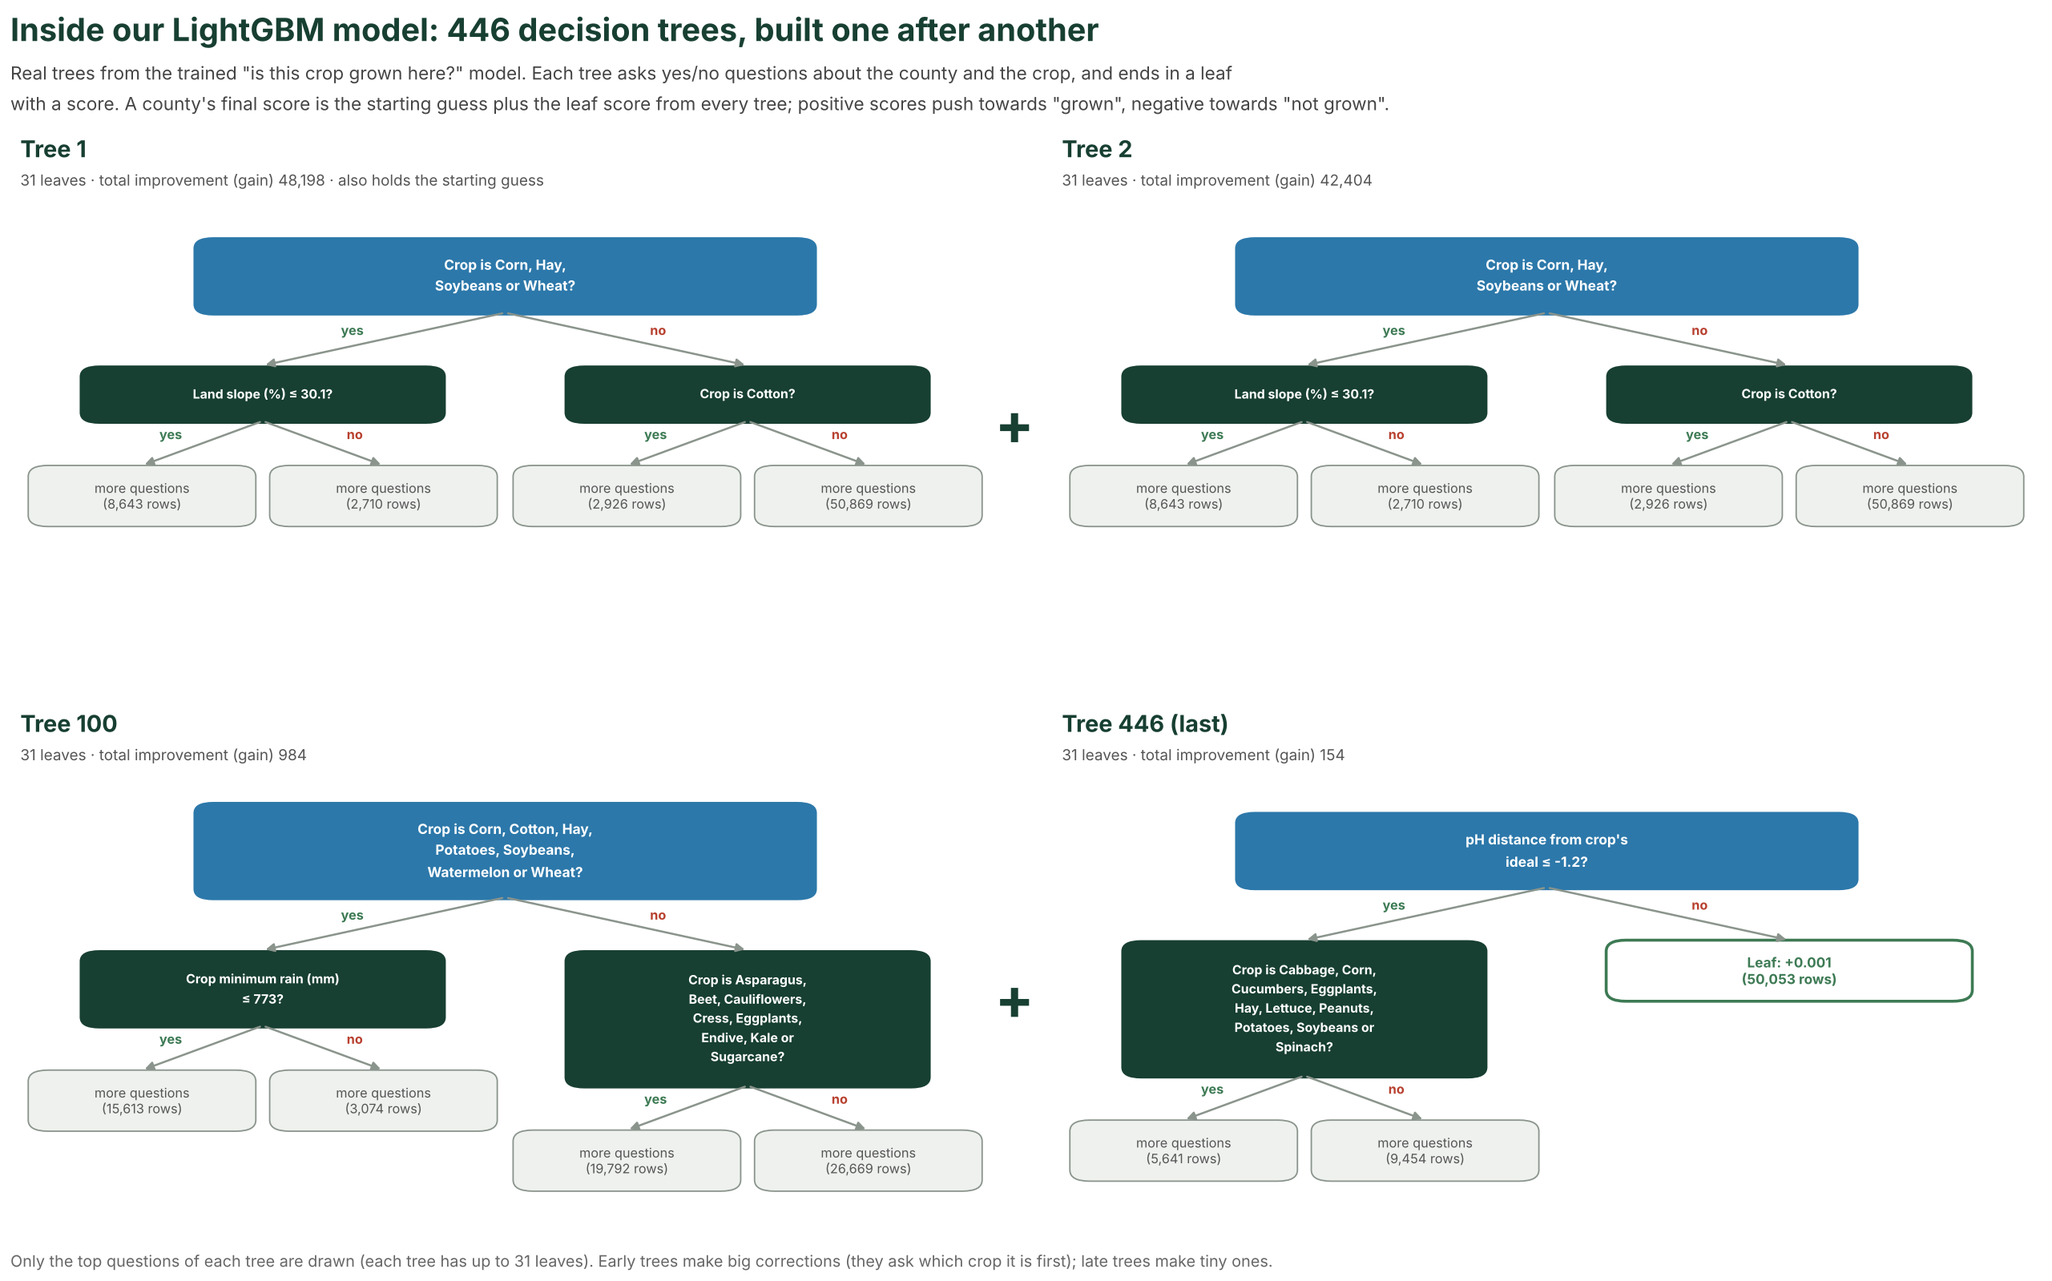
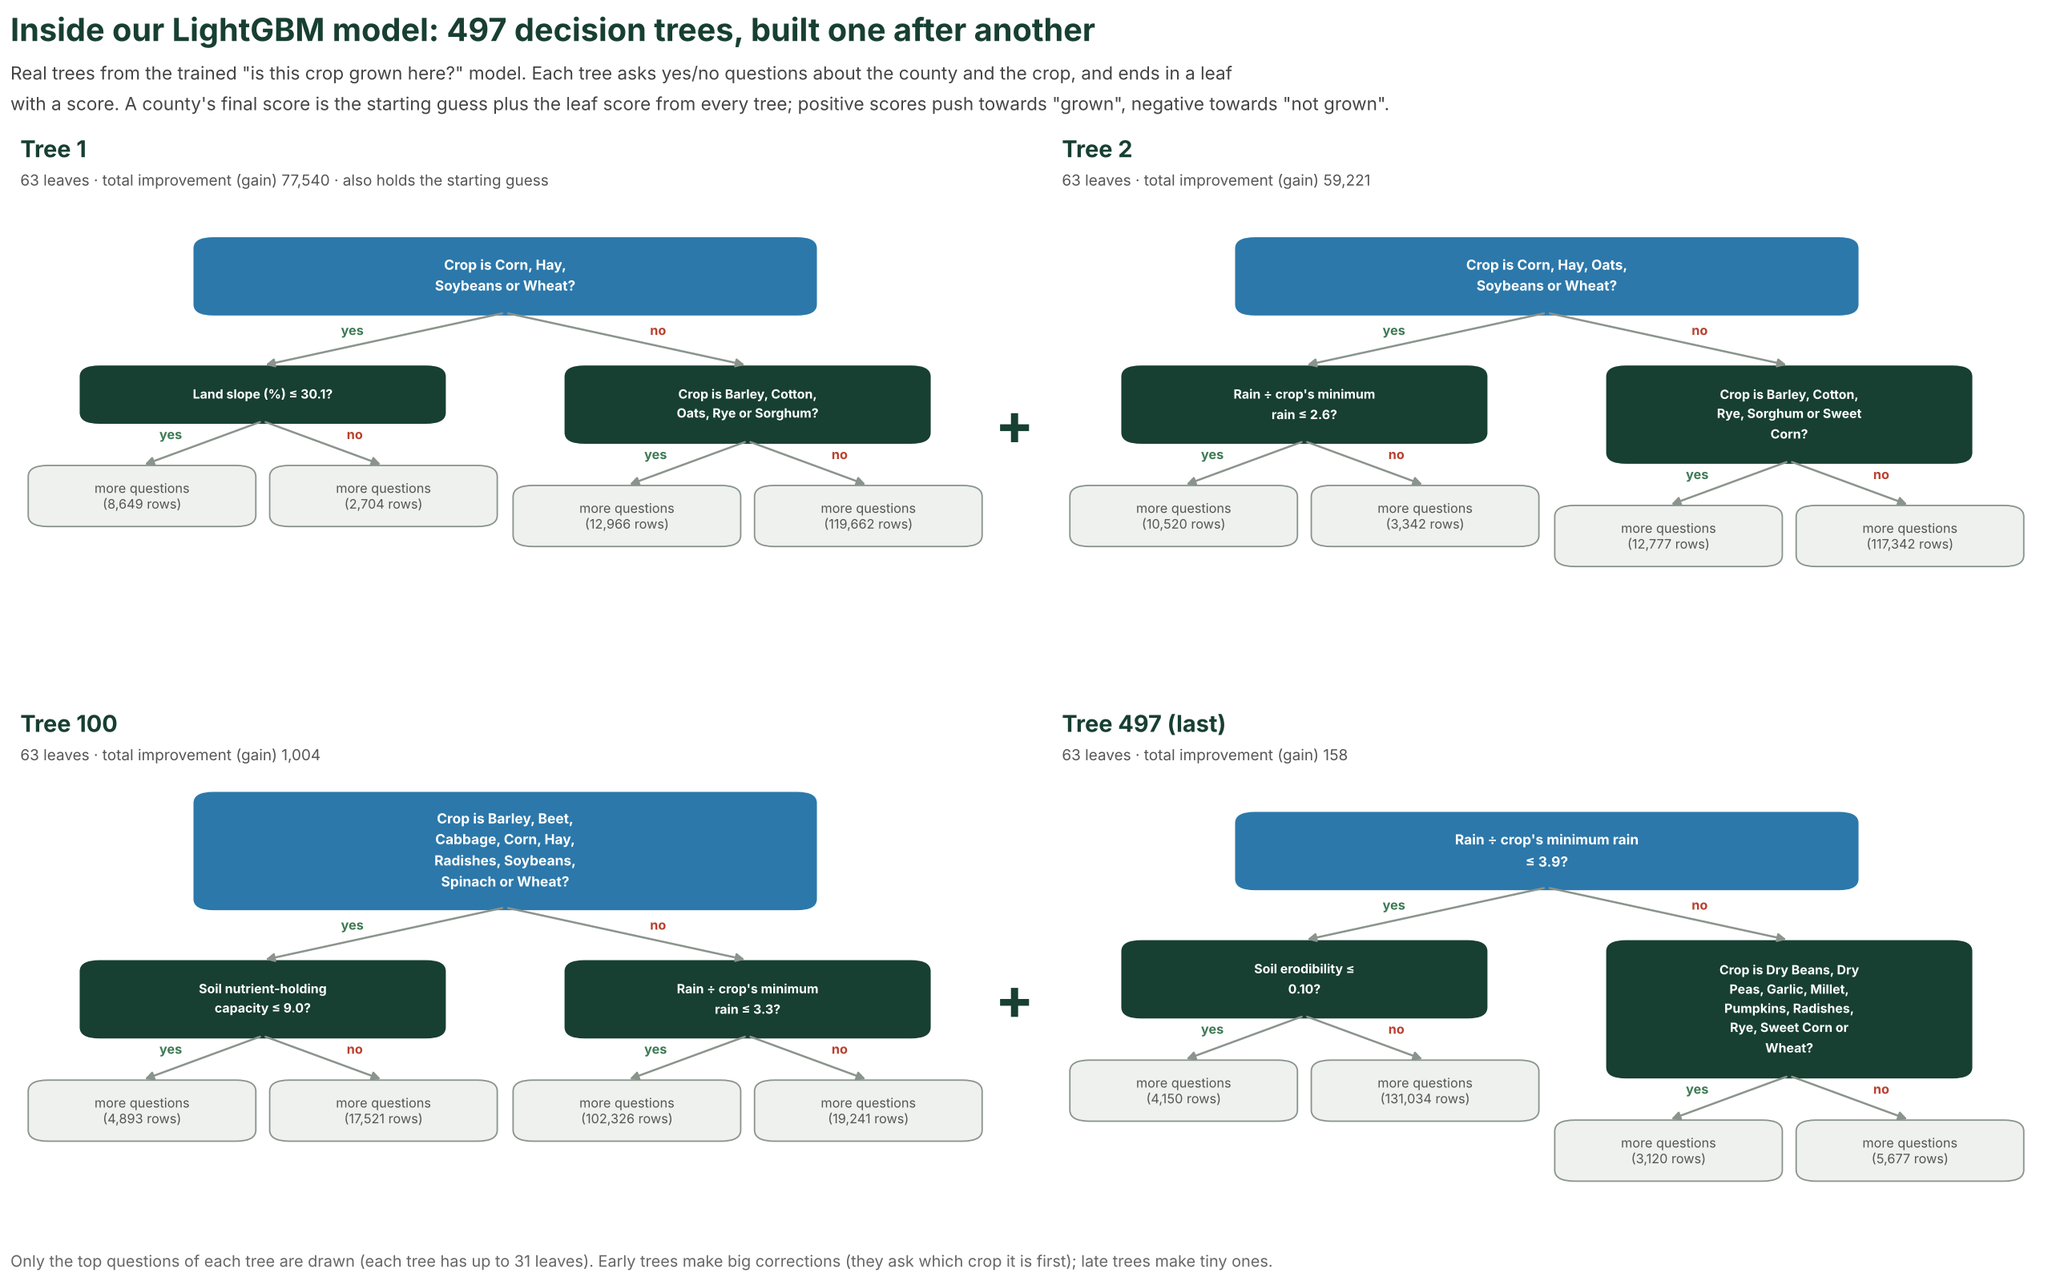
Project overview, how to run it, how the model works (updated for the 57-crop model)

diff --git a/training/tune_and_figures.py b/training/tune_and_figures.py
@@ -120,7 +120,7 @@ box(0.1, 4.0, 3.6, 2.0, "NASA", ["POWER climate 2001-2020", "rain, heat, aridity
 box(0.1, 1.95, 3.6, 1.85, "USDA + USGS soil", ["SSURGO soil per county", "USGS: P K S Ca Mg Zn Fe Mn Cu Mo"], SAND)
 box(0.1, 0.05, 3.6, 1.7, "USDA NASS (answers)", ["Census 2017/2022 harvested acres", "survey yields 2014-2023"], GREY)
 arrow(3.85, 4.75)
-box(4.8, 0.7, 4.3, 4.8, "1  Prepare + adjust data", ["• join 3,108 counties x 26 crops", "  = 80,808 rows", "• fill gaps (SSURGO 77% + fallback)",
+box(4.8, 0.7, 4.3, 4.8, "1  Prepare + adjust data", [f"• join {df.fips.nunique():,} counties x {df.crop.nunique()} crops", f"  = {len(df):,} rows", "• fill gaps (SSURGO 77% + fallback)",
      "• pH-adjusted nutrient levels", "• 25 match features: pH gap,", "  need - supply x 11 nutrients,", "  temperature gap, salt risk",
      "• labels: grown 100+ acres,", "  yield vs national typical"], GREEN)
 arrow(9.25, 10.15)
@@ -140,7 +140,7 @@ names = list(groups); counts = [len(groups[g]) for g in names]
 a1.barh(names[::-1], counts[::-1], color=cols[::-1]); a1.set_title("Prepared for LightGBM: 94 features in 5 groups")
 for i, v in enumerate(counts[::-1]): a1.text(v + 0.4, i, str(v), va="center", weight="bold")
 a1.set_xlabel("number of features")
-stats = [("80,808", "rows (county x crop)"), ("3,108", "US counties"), ("26", "crops"), ("6", "public datasets joined"),
+stats = [(f"{len(df):,}", "rows (county x crop)"), (f"{df.fips.nunique():,}", "US counties"), (str(df.crop.nunique()), "crops"), ("6", "public datasets joined"),
          (f"{int(A.grown_100ac.sum()):,}", "commercial crop-county pairs"), (f"{len(B):,}", "real yield records")]
 a2.axis("off"); a2.set_title("The training table")
 for i, (n, t) in enumerate(stats):
@@ -198,7 +198,7 @@ fig.suptitle("Results on states the model never saw", x=0.01, ha="left", fontsiz
 save(fig, "06_results_vs_baselines.png")
 
 # F7 per-crop AUC
-fig, ax = plt.subplots(figsize=(9, 8.5))
+fig, ax = plt.subplots(figsize=(9, max(8.5, 0.3 * len(pc_best))))
 ax.barh(pc_best.index, pc_best.values, color=[RED if v < 0.6 else (SAND if v < 0.75 else GREEN) for v in pc_best.values])
 ax.axvline(0.5, ls="--", color=GREY); ax.set_xlim(0.3, 1.0)
 for i, v in enumerate(pc_best.values): ax.text(v + 0.005, i, f"{v:.2f}", va="center", fontsize=10)

diff --git a/training/visualize_lightgbm.py b/training/visualize_lightgbm.py
@@ -143,7 +143,7 @@ a1.set_xticks([1, 2, 5, 10, 20, 50, 100, 200, N_TREES]); a1.set_xticklabels(["1"
 a1.set_xlabel("number of trees added so far"); a1.set_ylabel("model's chance the crop is grown (%)")
 a1.set_title("A real prediction, built up tree by tree")
 a1.legend(loc="upper left", fontsize=10.5, frameon=False, bbox_to_anchor=(0.0, 1.0))
-a1.annotate("after tree 1, every example is close\nto the starting guess (about 16–19%)", (1.05, 15.8), (1.12, 3), fontsize=10, color="#444",
+a1.annotate("after tree 1, every example is close\nto the starting guess (about 11–16%)", (1.05, 13), (1.12, 3), fontsize=10, color="#444",
             arrowprops=dict(arrowstyle="-", color=GREY))
 
 g = np.array([gain_total(t) for t in TREES])
@@ -153,7 +153,7 @@ a2.set_xlabel("tree number"); a2.set_ylabel("how much the tree improves the mode
 a2.set_title("Each new tree fixes less (boosting)")
 a2.annotate(f"tree 1: {g[0]:,.0f}", (1, g[0]), (60, g[0] * 0.7), fontsize=10.5, arrowprops=dict(arrowstyle="-", color=GREY))
 a2.annotate(f"tree {N_TREES}: {g[-1]:,.0f}", (N_TREES, g[-1]), (N_TREES * 0.55, g[-1] * 8), fontsize=10.5, arrowprops=dict(arrowstyle="-", color=GREY))
-a2.text(0.98, 0.95, f"learning rate 0.03: each tree's vote is shrunk\nso no single tree dominates; training stopped\nat tree {N_TREES} when "
+a2.text(0.98, 0.95, f"learning rate {float(json.load(open(HERE / 'final_results.json'))['params_tuned']['learning_rate']):g}: each tree's vote is shrunk\nso no single tree dominates; training stopped\nat tree {N_TREES} when "
         "states it never saw\nstopped getting better (early stopping)", transform=a2.transAxes, ha="right", va="top", fontsize=10.5, color="#444")
 fig.suptitle("How boosting works: start from a guess, then each tree corrects the errors left by the trees before it",
              x=0.01, y=1.02, ha="left", fontsize=18, weight="bold", color=DARK)

diff --git a/training/kid_figures.py b/training/kid_figures.py
@@ -83,7 +83,7 @@ ax.set_title("The report card: how often the model ranks a real crop county abov
 save(fig, "kid_04_report_card.png")
 
 # 5 + 6 -------------------------------------------------------------- Des Moines climate + 2050 (real NASA POWER + model)
-sys.path.insert(0, str(Path("/home/user/AgriGate_LightGBM/model")))
+sys.path.insert(0, str(Path(__file__).resolve().parent.parent / "model"))
 import agrigate_model as AG
 ct = AG.climate_trend(41.6, -93.6, 2050)
 yrs = np.array(ct["years"]); t = ct["temperature"]

diff --git a/training/mini_figures.py b/training/mini_figures.py
@@ -56,7 +56,7 @@ fig.subplots_adjust(wspace=0.05)
 save(fig, "mini_corn.png")
 
 # 2050
-sys.path.insert(0, "/home/user/AgriGate_LightGBM/model")
+sys.path.insert(0, str(Path(__file__).resolve().parent.parent / "model"))
 import agrigate_model as AG
 fu = AG.future(41.6, -93.6, 2050); byc = {r["crop"]: r for r in fu["crops"]}
 show = ["Corn", "Soybeans", "Wheat"]

diff --git a/README.md b/README.md
@@ -7,7 +7,7 @@
 ![Python](https://img.shields.io/badge/Python-3.10%2B-3776AB?logo=python&logoColor=white)
 ![LightGBM](https://img.shields.io/badge/Model-LightGBM-2E7D32)
 ![NASA POWER](https://img.shields.io/badge/Data-NASA%20POWER-0B3D91)
-![Score on unseen states](https://img.shields.io/badge/Score%20on%20unseen%20states-0.80-blue)
+![Score on unseen states](https://img.shields.io/badge/Score%20on%20unseen%20states-0.81-blue)
 
 AgriGate is a full-stack website backed by a **machine-learning model**. Pick any place in the 48 mainland United States and the crops you want to grow. AgriGate then tells you:
 
@@ -149,7 +149,7 @@ In one sentence: **we collected public climate and soil data for every US county
 |---|---|
 | **1. Collect** | Downloaded NASA climate, USDA soil, USGS nutrient and USDA farm-census data |
 | **2. Build** | Joined everything into one training table: every county × every crop |
-| **3. Train** | Trained a LightGBM model: 446 decision trees that learn from each other's mistakes |
+| **3. Train** | Trained a LightGBM model: 497 decision trees that learn from each other's mistakes |
 | **4. Test** | Tested it on whole states it never saw, so it can't just memorise |
 | **5. Project** | Extended NASA's climate trend to 2050 and asked the model again |
 | **6. Serve** | A Python server loads the saved model; the website asks it for any location |
@@ -165,7 +165,7 @@ All data is **free and public**.
 | **NASA POWER** | Rain, air temperature, daily temperature range, root-zone soil wetness | 2001–2020 averages for every county (model input), plus 1984–2025 monthly data for climate trends |
 | **USDA NRCS SSURGO** soil survey | Soil pH, organic matter, texture, salinity, drainage, water-holding capacity | Area-weighted average for each county, queried with SQL from Soil Data Access |
 | **USGS** soil geochemistry (Data Series 801 / Open-File Report 2014-1082) | Soil nutrients: phosphorus, potassium, sulfur, calcium, magnesium, zinc, iron, manganese, copper, molybdenum | The 5 nearest survey sites to each county, weighted by distance |
-| **USDA NASS** Census of Agriculture (2017, 2022) | Which crops each county really harvests, and yields (2014–2023) | **The answers the model learns from** |
+| **USDA NASS** Census of Agriculture (2017, 2022) | Which of 57 crops each county really harvests, and yields (2014–2023) | **The answers the model learns from** |
 
 **The answer key:** where America really grows its crops, according to the farm census.
 
@@ -183,7 +183,8 @@ Compare the two sets of maps: cotton grows where it's **hot**, corn where summer
 
 The scripts in [`training/`](training/) download, clean and join the data into **one table**:
 
-- **80,808 rows**, one for every county × crop pair (3,108 counties × 26 crops)
+- **177,156 rows**, one for every county × crop pair (3,108 counties × 57 crops)
+- **57 crops**: field crops (corn, soybeans, wheat, oats, barley, rye, sorghum, cotton, rice, canola, sunflowers and more), dry beans, peas, lentils and chickpeas, and vegetables (onions, carrots, squash, pumpkins, sweet potatoes, tomatoes and more)
 - **94 clues per row** (the model's inputs), for example:
   - **Climate (NASA):** yearly and summer rain, average/warmest/coldest temperature, dry months, aridity, root-zone wetness
   - **Soil (USDA):** pH, organic matter, texture, salinity, drainage
@@ -221,34 +222,35 @@ LightGBM (**Light G**radient **B**oosting **M**achine) builds the model out of m
 - **Boosting:** trees are added one at a time, and each new tree is trained to fix the mistakes the earlier trees still make.
 - The final answer adds up the scores from every tree and turns the total into a chance from 0% to 100%.
 
-Nobody writes the questions: **the computer finds the best ones by studying the 80,808 rows.**
+Nobody writes the questions: **the computer finds the best ones by studying the 177,156 rows.**
 
 **Real trees from our trained model.** Early trees ask big questions (which crop is it?); later trees make small corrections:
 
-![Four real trees from the model: tree 1, 2, 100 and 446](training/figures/11_lightgbm_trees.png)
+![Four real trees from the model: tree 1, 2, 100 and 497](training/figures/11_lightgbm_trees.png)
 
-**Boosting in action:** real predictions built up tree by tree. After 1 tree, every example sits near the starting guess. By tree 446, corn in Iowa reaches 99% and cotton in Iowa reaches 0%, matching the farm census.
+**Boosting in action:** real predictions built up tree by tree. After 1 tree, every example sits near the starting guess. By tree 497, corn in Iowa reaches 98% and cotton in Iowa reaches 0%, matching the farm census.
 
 ![Predictions built up tree by tree, and how much each new tree still improves the model](training/figures/12_lightgbm_boosting.png)
 
 ### Using the trained model on the website
 
-Training needs the LightGBM library, but **using** the trained model doesn't. The model is saved as a text file of 446 trees, and [`model/tree_model.py`](model/tree_model.py) follows those trees in plain Python, question by question. We checked it against LightGBM on thousands of rows: the predictions are identical (differences below 0.000000000000001). This is why AgriGate runs on any computer without extra system libraries.
+Training needs the LightGBM library, but **using** the trained model doesn't. The model is saved as a text file of 497 trees, and [`model/tree_model.py`](model/tree_model.py) follows those trees in plain Python, question by question. We checked it against LightGBM on thousands of rows: the predictions are identical (differences below 0.000000000000001). This is why AgriGate runs on any computer without extra system libraries.
 
 ### Settings
 
 ```python
-params = dict(objective="binary", learning_rate=0.03, num_leaves=31,
-              min_data_in_leaf=50, feature_fraction=0.5)
+params = dict(objective="binary", learning_rate=0.05, num_leaves=63,
+              min_data_in_leaf=100, feature_fraction=0.9, lambda_l2=20)
 ```
 
 | Setting | Value | Plain meaning |
 |---|---|---|
-| Learning rate | 0.03 | Each tree makes only a small correction |
-| Leaves per tree | 31 | How detailed each tree can be |
-| Rows per leaf (minimum) | 50 | No rule can be built from just a few counties |
-| Clues per tree | 50% | Each tree sees a random half of the clues, so no single clue takes over |
-| Trees | 446 | Chosen by early stopping (see below) |
+| Learning rate | 0.05 | Each tree makes only a small correction |
+| Leaves per tree | 63 | How detailed each tree can be |
+| Rows per leaf (minimum) | 100 | No rule can be built from just a few counties |
+| Clues per tree | 90% | Each tree sees a random 90% of the clues, so no single clue takes over |
+| L2 penalty | 20 | Keeps leaf scores small, so no single tree can push too hard |
+| Trees | 497 | Chosen by early stopping (see below) |
 
 We tried **12 different combinations** of settings, scored each one on hidden states only, and kept the best:
 
@@ -270,9 +272,9 @@ Neighbouring counties are almost identical, so testing on a county next door to 
 
 This is **cross-validation grouped by state** (`GroupKFold`).
 
-**Early stopping:** in the real training curve below, the error on the states the model trained on (grey) keeps falling toward zero, because it's starting to memorise. The error on hidden states (blue) levels off around 0.13 and then slowly gets worse. **We stop at 446 trees**, before memorising takes over.
+**Early stopping:** in the real training curve below, the error on the states the model trained on (grey) keeps falling toward zero, because it's starting to memorise. The error on hidden states (blue) levels off around 0.14 and then slowly gets worse. **We stop at 497 trees**, before memorising takes over.
 
-<p align="center"><img src="training/figures/mini_curve.png" alt="Training curve: training error keeps falling, hidden-state error levels off; training stops at 446 trees" width="560"></p>
+<p align="center"><img src="training/figures/mini_curve.png" alt="Training curve: training error keeps falling, hidden-state error levels off; training stops at 497 trees" width="560"></p>
 
 ---
 
@@ -280,32 +282,34 @@ This is **cross-validation grouped by state** (`GroupKFold`).
 
 All scores are measured **on states the model never saw during training**.
 
-![Report card: coin flip 0.50, hand-written rules 0.53, LightGBM 0.80, perfect 1.00](training/figures/kid_04_report_card.png)
+![Report card: coin flip 0.50, hand-written rules 0.58, LightGBM 0.81, perfect 1.00](training/figures/kid_04_report_card.png)
 
-### What does 0.80 mean?
+### What does 0.81 mean?
 
 The score is the **AUC** (area under the curve). Take one county that really grows a crop and one that doesn't, and ask the model which is more likely to grow it:
 
 | Score | Meaning |
 |---|---|
 | **1.00** | Always picks the right county (perfect) |
-| **0.80** | **Our model:** picks the right one 80% of the time |
-| **0.53** | Our hand-written rules: barely better than guessing |
+| **0.81** | **Our model:** picks the right one 81% of the time |
+| **0.58** | Our hand-written rules: only a little better than guessing |
 | **0.50** | A coin flip: no skill at all |
 
-We report the **median score per crop**. The overall score across all crops (0.975) looks better but is inflated, because most crops aren't grown in most counties, which makes "no" easy to guess.
+We report the **median score per crop**. The overall score across all crops (0.96) looks better but is inflated, because most crops aren't grown in most counties, which makes "no" easy to guess.
 
 | Model | Score per crop (median) | Yield R² |
 |---|---|---|
-| Hand-written rules | 0.53 | — |
-| LightGBM (default settings) | 0.79 | 0.36 |
-| **LightGBM (tuned)** | **0.80** | **0.36** |
+| Hand-written rules | 0.58 | — |
+| LightGBM (default settings) | 0.82 | 0.36 |
+| **LightGBM (tuned)** | **0.81** | **0.36** |
+
+On the full 5-fold test the default settings scored slightly higher than the setting picked by the quicker 3-fold search. The difference is small, and we report both honestly.
 
 A second LightGBM model predicts **harvest size (yield)**. It explains 36% of the differences between counties (R² 0.36), where simply using each crop's average explains 0%.
 
 ### Score for each crop
 
-Strongest on big field crops: **peanuts 0.95, cotton 0.94, soybeans 0.92, sugar beets 0.92, rice 0.91, corn 0.85**. It's weaker on vegetables, which are grown commercially in only a few states, so there are few examples to learn from.
+Strongest on field crops and pulses: **flax 0.97, lentils 0.97, chickpeas 0.96, peanuts 0.95, cotton 0.95, soybeans 0.93, sugar beets 0.92, rice 0.92, corn 0.86**. It's weaker on vegetables, which are grown commercially in only a few states, so there are few examples to learn from.
 
 ![Score for each crop on unseen states](training/figures/07_per_crop_accuracy.png)
 
@@ -317,9 +321,9 @@ The real USDA map of corn counties (left) next to the model's guess, where each 
 
 ### What the model relies on
 
-Among the information about a location, **NASA climate data carries 43%** of the model's decisions, the largest share of any source.
+Among the information about a location, **NASA climate data carries 39%** of the model's decisions, the largest share of any source.
 
-<p align="center"><img src="training/figures/kid_09_what_matters.png" alt="NASA climate 43%, USDA soil 27%, USGS nutrients 15%, match clues 15%" width="620"></p>
+<p align="center"><img src="training/figures/kid_09_what_matters.png" alt="NASA climate 39%, USDA soil 26%, USGS nutrients 17%, match clues 19%" width="620"></p>
 
 ---
 
@@ -334,7 +338,7 @@ Among the information about a location, **NASA climate data carries 43%** of the
 
 ![Des Moines: 42 years of NASA temperature data and the linear trend to 2050](training/figures/kid_05_desmoines_temp.png)
 
-With that warmer climate (about +1.5 °C and 9% less rain), **wheat rises from 51% to 94%**, while corn and soybeans stay near the top:
+With that warmer climate (about +1.5 °C and 9% less rain), **wheat rises from 26% to 84%** (and sorghum from 4% to 54%), while corn and soybeans stay near the top:
 
 ![Des Moines crops today versus 2050](training/figures/kid_06_crops_2050.png)
 
@@ -412,6 +416,7 @@ python3 training/tune_and_figures.py
 - **"Grown" isn't the same as "can grow":** harvest records also reflect markets, irrigation and tradition. The model learns where crops *are* grown commercially.
 - **The 2050 view is a trend, not a forecast:** it extends observed NASA data in a straight line, and rain trends are weak.
 - **Weaker for vegetables**, which are grown commercially in only a few states.
+- **57 crops, not every plant:** the model only knows crops the USDA census counts in every county. On the website, 48 plants get a model prediction; the rest (cover crops, herbs, trees) use the soil and nutrient rules only.
 - **Mainland United States only:** that's where the training answers come from.
 
 *AgriGate is a support tool. It doesn't replace a soil test, local experts or a farmer's own judgment.*
